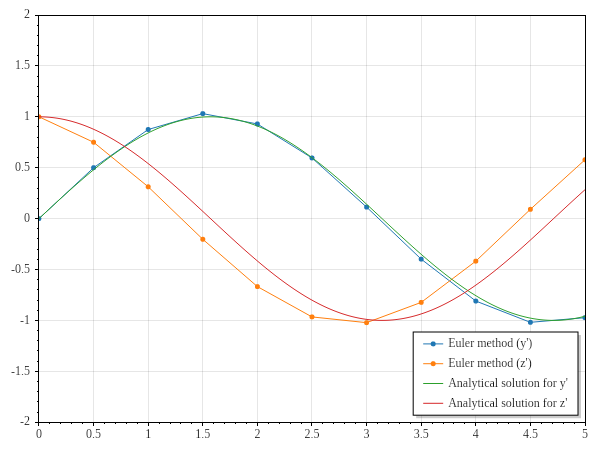
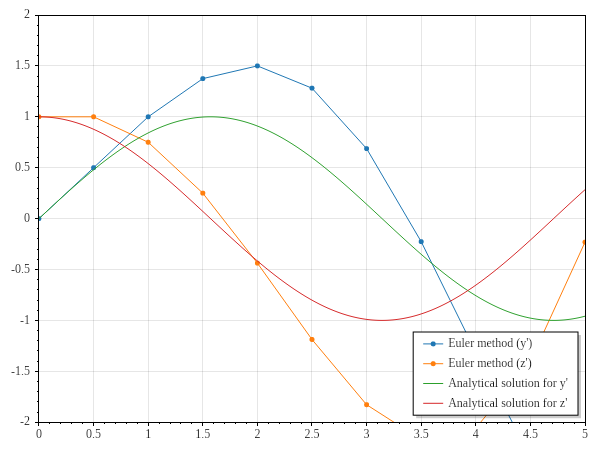
played around with matrices and made euler method with the use of matrices

diff --git a/Main.cs b/Main.cs
@@ -3,6 +3,8 @@ using System.Collections.Generic;
 using System.Linq;
 using ScottPlot;
 using System.Diagnostics;
+using MathNet.Numerics.LinearAlgebra;
+using MathNet.Numerics.LinearAlgebra.Double;
 
 namespace ODESolver;
 
@@ -11,17 +13,23 @@ class Solver{
 	static List<(double y, double z)> result2 = new();
 	static TimeSpan exec_time = new();
 	static ScottPlot.Plot plot2 = new();
+	static List<Matrix<double>> result_m = new();
 	
 	public static void Main(){
 		ScottPlot.Plot plot = new();
 
 		Console.WriteLine($"Does function converge? {Functs.Convergence()}");
 
-		EulerMethod.Euler(Functs.Y_prime, Functs.Z_prime, Consts.InitialConditions.Y, Consts.InitialConditions.Z, result2, out exec_time);
+		//EulerMethod.Euler(Functs.Y_prime, Functs.Z_prime, Consts.InitialConditions.Y, Consts.InitialConditions.Z, result2, out exec_time);
+		double[,] m = {{0,Consts.Omega},{-Consts.Omega,0}};
+		double[,] initial = {{Consts.InitialConditions.Y},{Consts.InitialConditions.Z}};
+		EulerMethod.EulerMatrix(DenseMatrix.OfArray(m), DenseMatrix.OfArray(initial), result_m, out exec_time);
+		
+		result_m.ForEach(i => Console.WriteLine(i[1,0]));
 
-		plot2.Add.Scatter(Enumerable.Range(0, result2.Count+1).Select(i => i*Consts.IntegrationSteps.Euler).ToArray(), result2.Select(i => i.y).ToArray()).LegendText = $"Euler method (y')";
+		plot2.Add.Scatter(Enumerable.Range(0, result_m.Count+1).Select(i => i*Consts.IntegrationSteps.Euler).ToArray(), result_m.Select(i => i[0,0]).ToArray()).LegendText = $"Euler method (y')";
 
-		plot2.Add.Scatter(Enumerable.Range(0, result2.Count+1).Select(i => i*Consts.IntegrationSteps.Euler).ToArray(), result2.Select(i => i.z).ToArray()).LegendText = $"Euler method (z')";
+		plot2.Add.Scatter(Enumerable.Range(0, result_m.Count+1).Select(i => i*Consts.IntegrationSteps.Euler).ToArray(), result_m.Select(i => i[1,0]).ToArray()).LegendText = $"Euler method (z')";
 
 		TaylorSeries.Taylor(Functs.Y_prime, Consts.InitialConditions.Y, result, out exec_time);
 
@@ -72,10 +80,10 @@ class Solver{
 		f_z.LegendText = "Analytical solution for z'";
 
 		plot2.Axes.SetLimits(0, Consts.T_max, -2, 2);
-		plot2.SavePng("graph2.png", 600, 450);
+		plot2.SavePng("output/graph2.png", 600, 450);
 		
 		plot.Axes.SetLimits(0, Consts.T_max, 0, 2);
-		plot.SavePng("graph.png", 600, 450);
+		plot.SavePng("output/graph.png", 600, 450);
 
 
 	}

diff --git a/src/Euler.cs b/src/Euler.cs
@@ -1,5 +1,6 @@
 using System;
 using System.Diagnostics;
+using MathNet.Numerics.LinearAlgebra;
 
 namespace ODESolver;
 
@@ -20,10 +21,23 @@ static class EulerMethod{
 	public static void Euler(Func<double,double> y_prime, Func<double,double> z_prime, double y, double z, List<(double, double)> vals, out TimeSpan exec_time){
 		stopwatch.Reset();
 		stopwatch.Start();
+		double new_y, new_z;
 		for(double i = 0; i<=Consts.T_max; i+=Consts.IntegrationSteps.Euler){
 			vals.Add((y,z));
-			y += Consts.IntegrationSteps.Euler * y_prime(z);
-			z += Consts.IntegrationSteps.Euler * z_prime(y);
+			new_y = y + Consts.IntegrationSteps.Euler * y_prime(z);
+			new_z = z + Consts.IntegrationSteps.Euler * z_prime(y);
+			(y, z) = (new_y, new_z);
+		}
+		stopwatch.Stop();
+		exec_time = stopwatch.Elapsed;
+		stopwatch.Reset();
+	}
+	public static void EulerMatrix(Matrix<double> m, Matrix<double> initial, List<Matrix<double>> vals, out TimeSpan exec_time){
+		stopwatch.Reset();
+		stopwatch.Start();
+		for(double i = 0; i<=Consts.T_max; i+=Consts.IntegrationSteps.Euler){
+			vals.Add(initial);
+			initial += Consts.IntegrationSteps.Euler*m*initial;
 		}
 		stopwatch.Stop();
 		exec_time = stopwatch.Elapsed;
